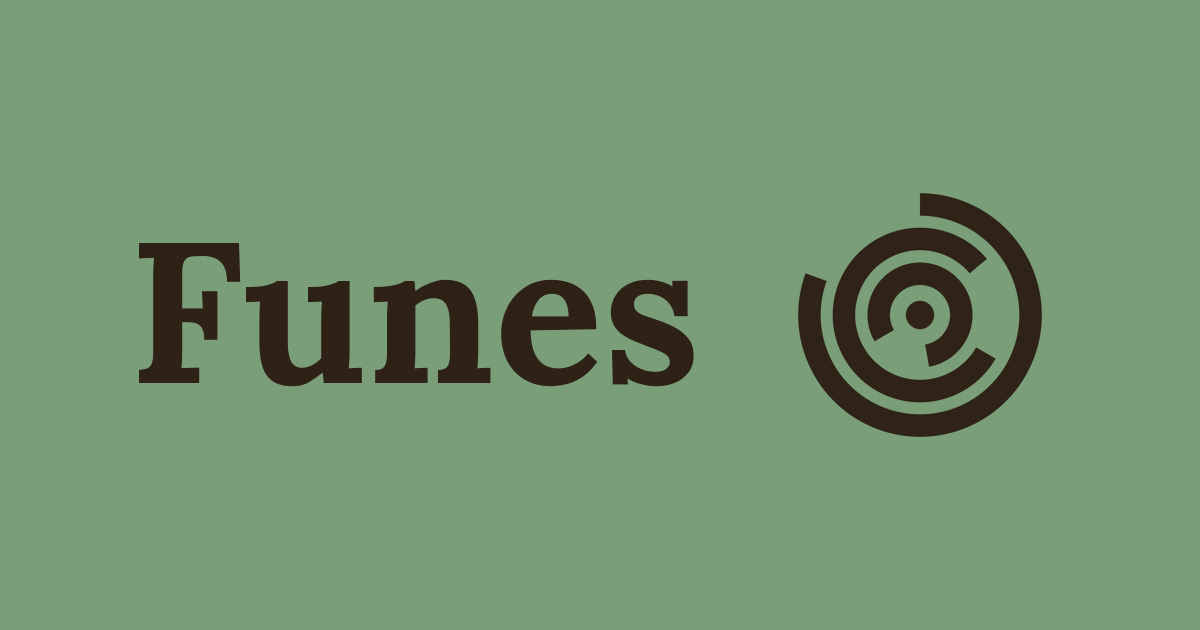
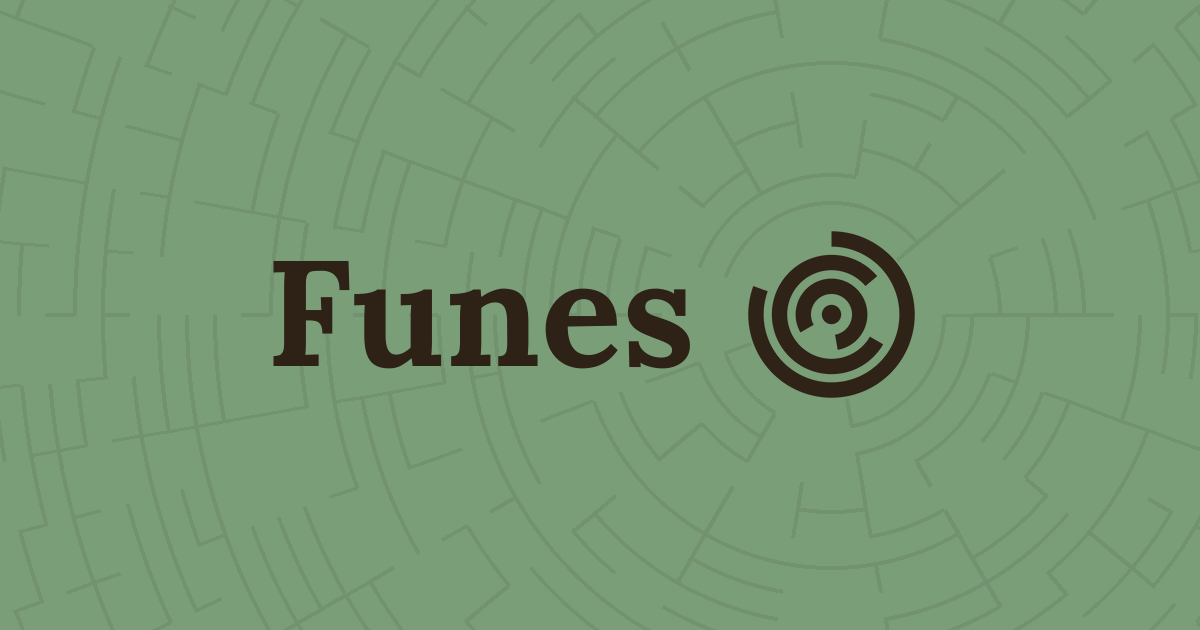
Funes: el laberinto tambien de fondo en la preview del link
Tres cambios sobre la imagen que se ve cuando alguien manda el link, tomando
como referencia como se ve el de Intervalo en el mismo hilo de WhatsApp:

- El nombre pasa de 200 a 150 px y el laberinto se le acerca (de 70 a 34 px de
  separacion). El bloque baja de ocupar el 75% del ancho al 53%: el aire
  alrededor es lo que lo hace ver como una marca y no como un cartel.
- Fondo con un laberinto radial, en tinta al 9%.
- El logo va sin su disco, con fondo transparente. Pintarlo del color del fondo
  alcanzaba mientras el fondo era liso; con textura detras se veia un circulo
  tapando el dibujo justo alrededor del logo.

Del laberinto de fondo, dos decisiones que costaron encontrar:

**Es un laberinto de verdad, no ruido con forma de laberinto.** La primera
version sorteaba cada pared por separado, y eso deja celdas cerradas por los
cuatro lados: pequenos recintos sin entrada que de lejos se leen como
cuadraditos sueltos. Ahora se genera con Kruskal, asi que hay un camino entre
cualquier par de celdas y ningun recinto aislado.

**Se genera con Kruskal y no con backtracker**, que era la otra opcion obvia.
Los dos dan laberintos perfectos, pero el backtracker camina hasta que no puede
y deja pasillos largos, y un pasillo largo es una tira sin muros que de lejos se
lee como un hueco. Kruskal une pares por toda la grilla a la vez: pasillos
cortos, muros repartidos parejo.

El laberinto nace del icono y no del medio de la imagen, asi el logo es el
[…]

Changed region(s): [[0.0925, 0.3619, 0.5858, 0.6333], [0.6167, 0.3016, 0.8942, 0.6937]]

diff --git a/funes/generar_og.py b/funes/generar_og.py
@@ -44,6 +44,23 @@ TINTA = (46, 33, 22)
 # laterales: el nombre y el logo quedan adentro del cuadrado central.
 ANCHO, ALTO = 1200, 630
 
+# El bloque no llena la imagen: el aire alrededor es lo que lo hace ver como una
+# marca y no como un cartel. Tomado de como se ve el de Intervalo al lado, en el
+# mismo hilo de WhatsApp. El laberinto va pegado al nombre -son una sola pieza,
+# no dos elementos sueltos- y el conjunto se centra entero.
+NOMBRE = "Funes"
+CUERPO_TIPOGRAFIA = 150
+LADO_LOGO = 205
+RESPIRO = 34
+
+# El laberinto del fondo. RADIO_LIBRE es donde arranca: 86 px es justo donde
+# termina el trazo del icono (medido: el archivo mide 205 px de lado pero su
+# dibujo llega hasta un radio de 84), asi que el laberinto empieza pegado y no
+# queda un halo vacio alrededor del logo.
+PASO_LABERINTO = 28
+ARCO_LABERINTO = 58
+RADIO_LIBRE = 86
+
 # Lora es la tipografia de los titulos del sitio (base.html la trae de Google
 # Fonts). Se baja al vuelo y se cachea, para no versionar un .ttf de 130 KB que
 # ya vive en un CDN.
@@ -61,14 +78,124 @@ def _tipografia(tamano: int) -> ImageFont.FreeTypeFont:
     return ImageFont.truetype(str(cache), tamano)
 
 
+# Cuanto se despega el laberinto del verde liso. Bajisimo a proposito: tiene que
+# leerse como textura del papel, no como un dibujo que compite con el nombre. A
+# partir de ~14 el ojo lo lee como "hay algo escrito atras" y estorba.
+_FUERZA_FONDO = 9
+
+
+def _laberinto_radial(dibujo, centro, tinta, radio_max, paso, arco, semilla,
+                      radio_min=0):
+    """Dibuja un laberinto radial de verdad: anillos partidos en celdas, con
+    paredes derribadas de modo que TODAS las celdas queden conectadas entre si.
+
+    La version anterior sorteaba cada pared por separado, y eso dejaba celdas
+    cerradas por los cuatro lados -pequenos recintos sin entrada- que de lejos se
+    leen como cuadraditos sueltos y delatan que no es un laberinto sino ruido con
+    forma de laberinto.
+
+    Se genera con Kruskal: se mezclan todas las paredes y se derriba cada una
+    que une dos partes todavia separadas. El resultado es un arbol -un camino
+    entre cualquier par de celdas, ningun recinto aislado- y ademas queda parejo:
+    el backtracker, que es la otra forma de hacerlo, camina hasta que no puede y
+    deja pasillos largos, y un pasillo largo es una tira sin muros que de lejos
+    se lee como un hueco.
+
+    Los anillos de afuera se parten en mas sectores que los de adentro, para que
+    las celdas midan mas o menos lo mismo en toda la imagen; si no, las de afuera
+    quedan larguisimas y las del centro diminutas."""
+    import math
+    import random
+
+    rnd = random.Random(semilla)
+    cx, cy = centro
+
+    # Cuantos sectores tiene cada anillo. Se duplican cuando la celda se estiro
+    # al doble de larga que alta.
+    # El primer anillo arranca en radio_min y ya se parte en tantos sectores como
+    # entren: si empezara en 6 como cuando nace del centro, las celdas de adentro
+    # saldrian larguisimas.
+    radio_min = max(radio_min, paso)
+    sectores = [max(6, round(2 * math.pi * radio_min / arco))]
+    while radio_min + len(sectores) * paso <= radio_max:
+        radio = radio_min + len(sectores) * paso
+        n = sectores[-1]
+        if 2 * math.pi * radio / n > arco * 2:
+            n *= 2
+        sectores.append(n)
+    total_anillos = len(sectores)
+
+    # Kruskal: se listan todas las paredes, se mezclan, y se derriba la que une
+    # dos partes todavia separadas. Cuando termina hay exactamente un camino
+    # entre cada par de celdas -ni recintos aislados ni vueltas redundantes-.
+    def vecinas(celda):
+        i, s = celda
+        n = sectores[i]
+        salida = [(i, (s - 1) % n), (i, (s + 1) % n)] if n > 2 else []
+        if i > 0:
+            m = sectores[i - 1]
+            salida.append((i - 1, s * m // n))
+        if i + 1 < total_anillos:
+            factor = sectores[i + 1] // n
+            salida.extend((i + 1, s * factor + k) for k in range(factor))
+        return salida
+
+    paredes = []
+    for i in range(total_anillos):
+        for sector in range(sectores[i]):
+            celda = (i, sector)
+            for vecina in vecinas(celda):
+                if celda < vecina:
+                    paredes.append((celda, vecina))
+    rnd.shuffle(paredes)
+
+    grupo = {}
+
+    def raiz(celda):
+        while grupo.get(celda, celda) != celda:
+            grupo[celda] = grupo.get(grupo[celda], grupo[celda])
+            celda = grupo[celda]
+        return celda
+
+    abiertas = set()
+    for una, otra in paredes:
+        ra, rb = raiz(una), raiz(otra)
+        if ra != rb:
+            grupo[ra] = rb
+            abiertas.add(frozenset((una, otra)))
+    # Las paredes que quedaron en pie.
+    for i in range(total_anillos):
+        n = sectores[i]
+        r_dentro = radio_min + i * paso
+        r_fuera = radio_min + (i + 1) * paso
+        grados = 360 / n
+        for sector in range(n):
+            desde = sector * grados
+            # Pared hacia adentro: el arco que separa del anillo anterior.
+            if i > 0:
+                m = sectores[i - 1]
+                if frozenset(((i, sector), (i - 1, sector * m // n))) not in abiertas:
+                    dibujo.arc([cx - r_dentro, cy - r_dentro, cx + r_dentro, cy + r_dentro],
+                               desde, desde + grados, fill=tinta, width=4)
+            # Pared lateral: el radio que separa de la celda de al lado.
+            if n > 1 and frozenset(((i, sector), (i, (sector + 1) % n))) not in abiertas:
+                a = math.radians(desde + grados)
+                dibujo.line([cx + r_dentro * math.cos(a), cy + r_dentro * math.sin(a),
+                             cx + r_fuera * math.cos(a), cy + r_fuera * math.sin(a)],
+                            fill=tinta, width=4)
+
+
 def _laberinto(lado: int) -> Image.Image:
     """El logo con el disco en verde y el trazo en tinta.
 
-    El archivo de la marca viene con el disco en papel, y sobre el fondo verde
-    eso se veria como un circulo claro pegado al nombre. Se reemplaza color por
-    color -papel pasa a verde, tinta se queda- interpolando por luminosidad, que
-    es lo unico que conserva el suavizado de los bordes: recortar por umbral deja
-    el laberinto con los bordes dentados."""
+    El archivo de la marca viene como un disco: fondo en papel y trazo en tinta.
+    Aca se queda solo el trazo y el disco se vuelve transparente, para que lo que
+    haya detras -el verde liso o la textura del fondo- pase a traves. Pintar el
+    disco del color del fondo alcanzaba mientras el fondo era liso; con textura
+    se veia un circulo tapando el dibujo justo alrededor del logo.
+
+    La transparencia se calcula por luminosidad y no recortando por umbral, que
+    es lo unico que le conserva el suavizado a los bordes del laberinto."""
     icono = Image.open(ICONO).convert("RGBA").resize((lado, lado), Image.LANCZOS)
     gris = icono.convert("L")
     lum_tinta = sum(TINTA) / 3
@@ -81,33 +208,48 @@ def _laberinto(lado: int) -> Image.Image:
             # t = 0 en el trazo, 1 en el fondo del disco.
             t = (pix_gris[x, y] - lum_tinta) / (lum_papel - lum_tinta)
             t = min(1.0, max(0.0, t))
-            destino[x, y] = tuple(
-                round(TINTA[c] + (VERDE[c] - TINTA[c]) * t) for c in range(3)
-            ) + (pix_alpha[x, y],)
+            destino[x, y] = TINTA + (round(pix_alpha[x, y] * (1 - t)),)
     return salida
 
 
-def generar() -> Image.Image:
+def _disposicion(dibujo, fuente):
+    """Donde va cada cosa. Se calcula aparte porque el fondo lo necesita: el
+    laberinto nace del icono, y donde cae el icono depende de cuanto mide el
+    nombre."""
+    caja = dibujo.textbbox((0, 0), NOMBRE, font=fuente)
+    ancho_texto, alto_texto = caja[2] - caja[0], caja[3] - caja[1]
+    # El bloque (nombre + laberinto) se centra como una sola pieza. Centrar cada
+    # cosa por separado los deja mirando a lados distintos.
+    x = (ANCHO - (ancho_texto + RESPIRO + LADO_LOGO)) // 2
+    return {
+        "texto": (x, (ALTO - alto_texto) // 2 - caja[1]),
+        "logo": (x + ancho_texto + RESPIRO, (ALTO - LADO_LOGO) // 2),
+        "centro_logo": (x + ancho_texto + RESPIRO + LADO_LOGO / 2, ALTO / 2),
+    }
+
+
+def generar(motivo: str = "laberinto") -> Image.Image:
     lienzo = Image.new("RGB", (ANCHO, ALTO), VERDE)
     dibujo = ImageDraw.Draw(lienzo)
+    fuente = _tipografia(CUERPO_TIPOGRAFIA)
+    donde = _disposicion(dibujo, fuente)
 
-    fuente = _tipografia(200)
-    texto = "Funes"
-    caja = dibujo.textbbox((0, 0), texto, font=fuente)
-    ancho_texto, alto_texto = caja[2] - caja[0], caja[3] - caja[1]
+    if motivo == "laberinto":
+        # El laberinto sale del icono, no del medio de la imagen: asi el logo es
+        # el centro del laberinto y no una pieza apoyada encima. Arranca donde
+        # termina el trazo del icono (RADIO_LIBRE), para que sus lineas no se
+        # mezclen con las del fondo.
+        capa = Image.new("RGBA", lienzo.size, (0, 0, 0, 0))
+        _laberinto_radial(ImageDraw.Draw(capa), donde["centro_logo"],
+                          TINTA + (_FUERZA_FONDO * 255 // 100,),
+                          radio_max=1000, paso=PASO_LABERINTO, arco=ARCO_LABERINTO,
+                          semilla=13, radio_min=RADIO_LIBRE)
+        lienzo = Image.alpha_composite(lienzo.convert("RGBA"), capa).convert("RGB")
+        dibujo = ImageDraw.Draw(lienzo)
 
-    # El bloque (nombre + laberinto) se centra como una sola pieza, con el
-    # laberinto pisandole el alto a la mayuscula. Centrar cada cosa por separado
-    # los deja mirando a lados distintos.
-    lado_logo = 300
-    respiro = 70
-    ancho_bloque = ancho_texto + respiro + lado_logo
-    x = (ANCHO - ancho_bloque) // 2
-    y_texto = (ALTO - alto_texto) // 2 - caja[1]
-    dibujo.text((x, y_texto), texto, font=fuente, fill=TINTA)
-
-    logo = _laberinto(lado_logo)
-    lienzo.paste(logo, (x + ancho_texto + respiro, (ALTO - lado_logo) // 2), logo)
+    dibujo.text(donde["texto"], NOMBRE, font=fuente, fill=TINTA)
+    logo = _laberinto(LADO_LOGO)
+    lienzo.paste(logo, donde["logo"], logo)
     return lienzo
 
 
@@ -115,9 +257,12 @@ def main() -> None:
     parser = argparse.ArgumentParser()
     parser.add_argument("--ver", action="store_true",
                         help="la escribe en el temporal en vez de en static/")
+    parser.add_argument("--motivo", default="laberinto",
+                        choices=("laberinto", "liso"),
+                        help="con laberinto de fondo o el verde solo")
     args = parser.parse_args()
 
-    imagen = generar()
+    imagen = generar(args.motivo)
     destino = Path(os.environ.get("TEMP", "/tmp")) / "funes-og.png" if args.ver else SALIDA
     imagen.save(destino, format="PNG", optimize=True)
     print(f"{destino}  ({destino.stat().st_size // 1024} KB, {imagen.width}x{imagen.height})")
